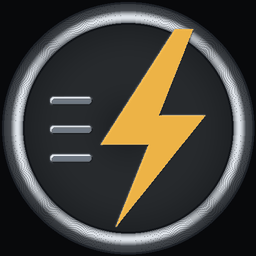
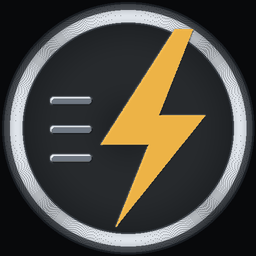
fix(achievements): solid silver frame on medallion faces
The originals carry a solid bright silver frame (luminance >120 across r
82-92% of the disc, ~11px at 256) between the thin CSS tier ring and the
dark face - that frame is what makes their edge read thick. Replace the
beveled peak ring with a plateau-brightness frame matching the measured
profile.

Changed region(s): [[0.0312, 0.0312, 0.9688, 0.9688], [0.625, 0.4375, 0.8125, 0.4688]]

diff --git a/scripts/art/gen-achievement-medallions.py b/scripts/art/gen-achievement-medallions.py
@@ -1,8 +1,7 @@
 # Generator for the self-drawn TokenTracker achievement medallion faces
-# (256px, dark gunmetal disc + dark engraved band + hairline bright edge
-# + steel relief emblem + one accent color). Style target: the existing
-# AI-made medallions that live beside the outputs. Rerun to tweak; outputs
-# land in dashboard/public.
+# (256px, solid bright silver frame + dark face + steel relief emblem + one
+# accent color). Style target: the existing AI-made medallions that live
+# beside the outputs. Rerun to tweak; outputs land in dashboard/public.
 from PIL import Image, ImageDraw, ImageOps, ImageChops, ImageFilter
 import math
 
@@ -12,8 +11,9 @@ OUT = "D:/tt-rebase/dashboard/public/achievements"
 STEEL = 235    # height for raised steel parts
 ACCENT_H = 205 # slightly lower relief for accent parts
 # Measured from the original medallions (veteran/streak/night-owl/wordsmith):
-# emblem bbox max-dimension ≈ 77.5% of the canvas; bright beveled ring at
-# ~82-91% of the disc radius; mid-dark outer rim beyond it.
+# emblem bbox max-dimension ≈ 77.5% of the canvas; the artwork carries a
+# SOLID bright silver frame (luminance >120 across r 82-92% of the disc,
+# ~11px at 256) with a mid-dark outer rim beyond it.
 EMBLEM_TARGET = 0.775 * S
 
 
@@ -21,24 +21,24 @@ def base_disc():
     img = Image.new("RGB", (S, S), (8, 9, 11))
     d = ImageDraw.Draw(img)
     cx = cy = S // 2
-    # dark face (out to the ring's inner edge)
-    for r in range(210, 0, -2):
-        t = r / 210.0
+    # dark face
+    for r in range(212, 0, -2):
+        t = r / 212.0
         v = int(26 + 14 * math.sin(t * math.pi * 0.9))
         d.ellipse((cx - r, cy - r, cx + r, cy + r), fill=(v, v + 3, v + 6))
-    # inner shadow groove
-    d.ellipse((cx - 213, cy - 213, cx + 213, cy + 213), outline=(18, 21, 25), width=7)
-    # bright beveled ring: dark inner edge → bright middle → mid outer edge
-    for r in range(234, 210, -1):
-        t = (r - 210) / 24.0
-        v = int(96 + 128 * math.sin(t * math.pi))
+    # solid bright silver frame (plateau with a subtle radial sheen)
+    for r in range(236, 210, -1):
+        t = (r - 210) / 26.0
+        v = int(200 + 24 * math.sin(t * math.pi))
         d.ellipse((cx - r, cy - r, cx + r, cy + r), outline=(v, v + 5, v + 11), width=1)
-    # mid-dark outer rim up to the edge
-    for r in range(252, 234, -1):
-        t = (r - 234) / 18.0
-        v = int(74 - 26 * t)
+    # darker inner lip between face and frame
+    d.ellipse((cx - 211, cy - 211, cx + 211, cy + 211), outline=(58, 64, 71), width=3)
+    # mid-dark outer rim beyond the frame
+    for r in range(252, 236, -1):
+        t = (r - 236) / 16.0
+        v = int(80 - 30 * t)
         d.ellipse((cx - r, cy - r, cx + r, cy + r), outline=(v, v + 4, v + 9), width=1)
-    d.ellipse((cx - 252, cy - 252, cx + 252, cy + 252), outline=(30, 34, 40), width=4)
+    d.ellipse((cx - 252, cy - 252, cx + 252, cy + 252), outline=(26, 30, 35), width=4)
     return img
 
 
